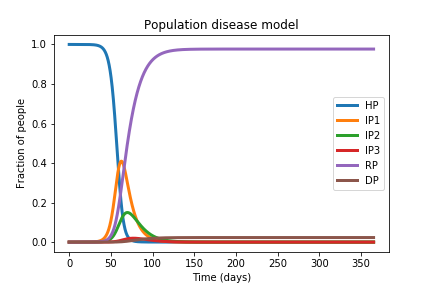
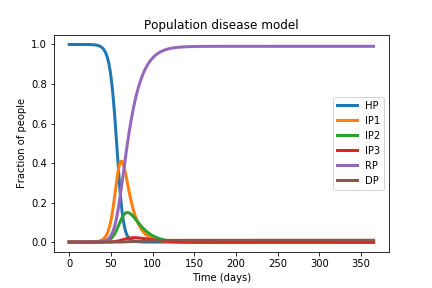
death rate function fixed according to the word document

Changed region(s): [[0.331, 0.125, 0.8727, 0.25], [0.2708, 0.8125, 0.8727, 0.8438], [0.3009, 0.25, 0.331, 0.3438]]

diff --git a/infectionModel_v0.1.py b/infectionModel_v0.1.py
@@ -54,7 +54,7 @@ def populationModel(t, n, r, p):
   R_inf1 = r_meeting1 * r_infection1 * (HP / TP) * IP1 #infection rate 1: chance they susceptible people meet asymptomatic patients ánd that they are infected
   R_inf2 = r_meeting2 * r_infection2 * (HP / TP) * IP2 #infection rate 2: people are infected by symptomatic patients
   R_inf3 = r_meeting3 * r_infection3 * (HP / TP) * IP3 #infection rate 3: people are infected by hospitalized patients
-  r_d = r_d1 + logistic(IP3, cap_IC) * r_d2
+  r_d = r_d1 + logistic(IP3, cap_IC) * r_d2 * r_d1
   
   dn = np.empty(len(n)) #create an empty array to define the ODEs
 
